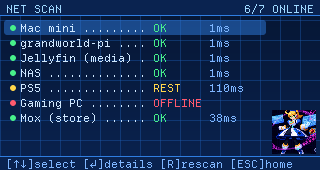
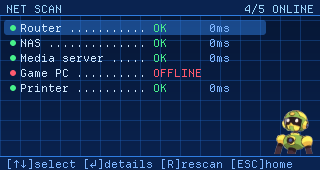
README: show your own Navi, not Alice
New README screenshots (Home, folder, NET SCAN, TERMINAL, chip slot) use the
Norm example Navi, [USER] as the owner and example hosts instead of Alice and
Holden's own hosts. No emoji in the title; the AlicePET upgrade note moves to
its own section.

Claude-Session: https://claude.ai/code/session_019cnCJqbRbKkYcXzEjwxpop

diff --git a/README.md b/README.md
@@ -1,4 +1,4 @@
-# PET-os ⚡🐇
+# PET-os
 
 A Mega Man Battle Network-style **P.E.T.** (PErsonal Terminal) app for the
 [M5Stack CardputerZero](https://github.com/CardputerZero). It turns the pocket
@@ -8,15 +8,8 @@ Navi on the PET, and you slot **Battle Chips** that each open a small tool
 (SSH terminal, Jellyfin player, network tester, IR remote, retro games, and a
 USB sidekick for PCs).
 
-It started as AlicePET, built for one Navi, **Alice**, and her operator. Your
-Navi's name, picture and your own name are settings, so it can be yours
-instead (see [Making it yours](#making-it-yours)).
-
-> **Coming from AlicePET?** Install the PET-os package over it. It replaces the
-> `alicepet` package and copies `/etc/alicepet.local.conf` and the Jack In sudo
-> rule to their new names. The app moves its saved files (ROMs, remotes,
-> trusted PCs) from `alicepet/` to `pet-os/` the first time it starts. Then
-> reboot, and run `pet-setup.sh` once more so the volume keys use the new name.
+Your Navi's name and picture and your own name are settings, and the setup
+script asks for them (see [Making it yours](#making-it-yours)).
 
 <p align="center">
   <img src="pet-os/screenshots/home@3x.png" width="48%" alt="Navi Home">
@@ -124,7 +117,7 @@ bin/pet-os-bridge.sh
 | `PET_BRIDGE_TOKEN` | (none) | Required for any address other than 127.0.0.1. The PET sends it with every request. |
 | `BIND_HOST` | `127.0.0.1` | Where the bridge listens. Your Tailscale address is the safe choice. |
 | `PET_BRIDGE_PORT` | `8797` | The bridge port. |
-| `PET_VOICE_PROMPT` | Alice's vocabulary | Words Whisper should expect, such as your Navi's name, your name and your host names. Set this for good voice transcription. |
+| `PET_VOICE_PROMPT` | the original owner's word list | Words Whisper should expect, such as your Navi's name, your name and your host names. Set this for good voice transcription. |
 | `PET_VOICE_MODEL` | `large-v3-turbo` | Whisper model for push-to-talk. |
 
 The bridge runs in the foreground; stop it with Ctrl-C. Use your OS's service
@@ -200,7 +193,7 @@ sharing the PC's internet) are always clicked on the PC itself. Setup:
 <p align="center">
   <img src="pet-os/screenshots/netscan@3x.png" width="32%" alt="NET SCAN">
   <img src="pet-os/screenshots/terminal-hosts@3x.png" width="32%" alt="TERMINAL chip">
-  <img src="pet-os/screenshots/jellyfin@3x.png" width="32%" alt="JELLYFIN chip">
+  <img src="pet-os/screenshots/slotted@3x.png" width="32%" alt="Slotting the JELLYFIN chip">
 </p>
 
 ## Making it yours
@@ -225,7 +218,6 @@ On your Navi's computer, start the bridge with the same name
 (`PET_NAVI_NAME=Norm`), so your Navi answers as Norm.
 
 <p align="center">
-  <img src="pet-os/screenshots/navi-norm-home@3x.png" width="48%" alt="Navi Home with a Navi named Norm">
   <img src="pet-os/screenshots/navi-norm-voice@3x.png" width="48%" alt="VOICE chip with Norm">
 </p>
 
@@ -262,6 +254,14 @@ mockups/         approved designs; chip art is rendered from chips.html
 CHIPS.md         the Battle Chip folder and ideas
 HANDOFF.md       current status for whoever picks this up next
 ```
+
+## Upgrading from AlicePET
+
+PET-os used to be called AlicePET. Install the PET-os package over it. It replaces the
+`alicepet` package and copies `/etc/alicepet.local.conf` and the Jack In sudo
+rule to their new names. The app moves its saved files (ROMs, remotes,
+trusted PCs) from `alicepet/` to `pet-os/` the first time it starts. Then
+reboot, and run `pet-setup.sh` once more so the volume keys use the new name.
 
 ## Secrets
 
